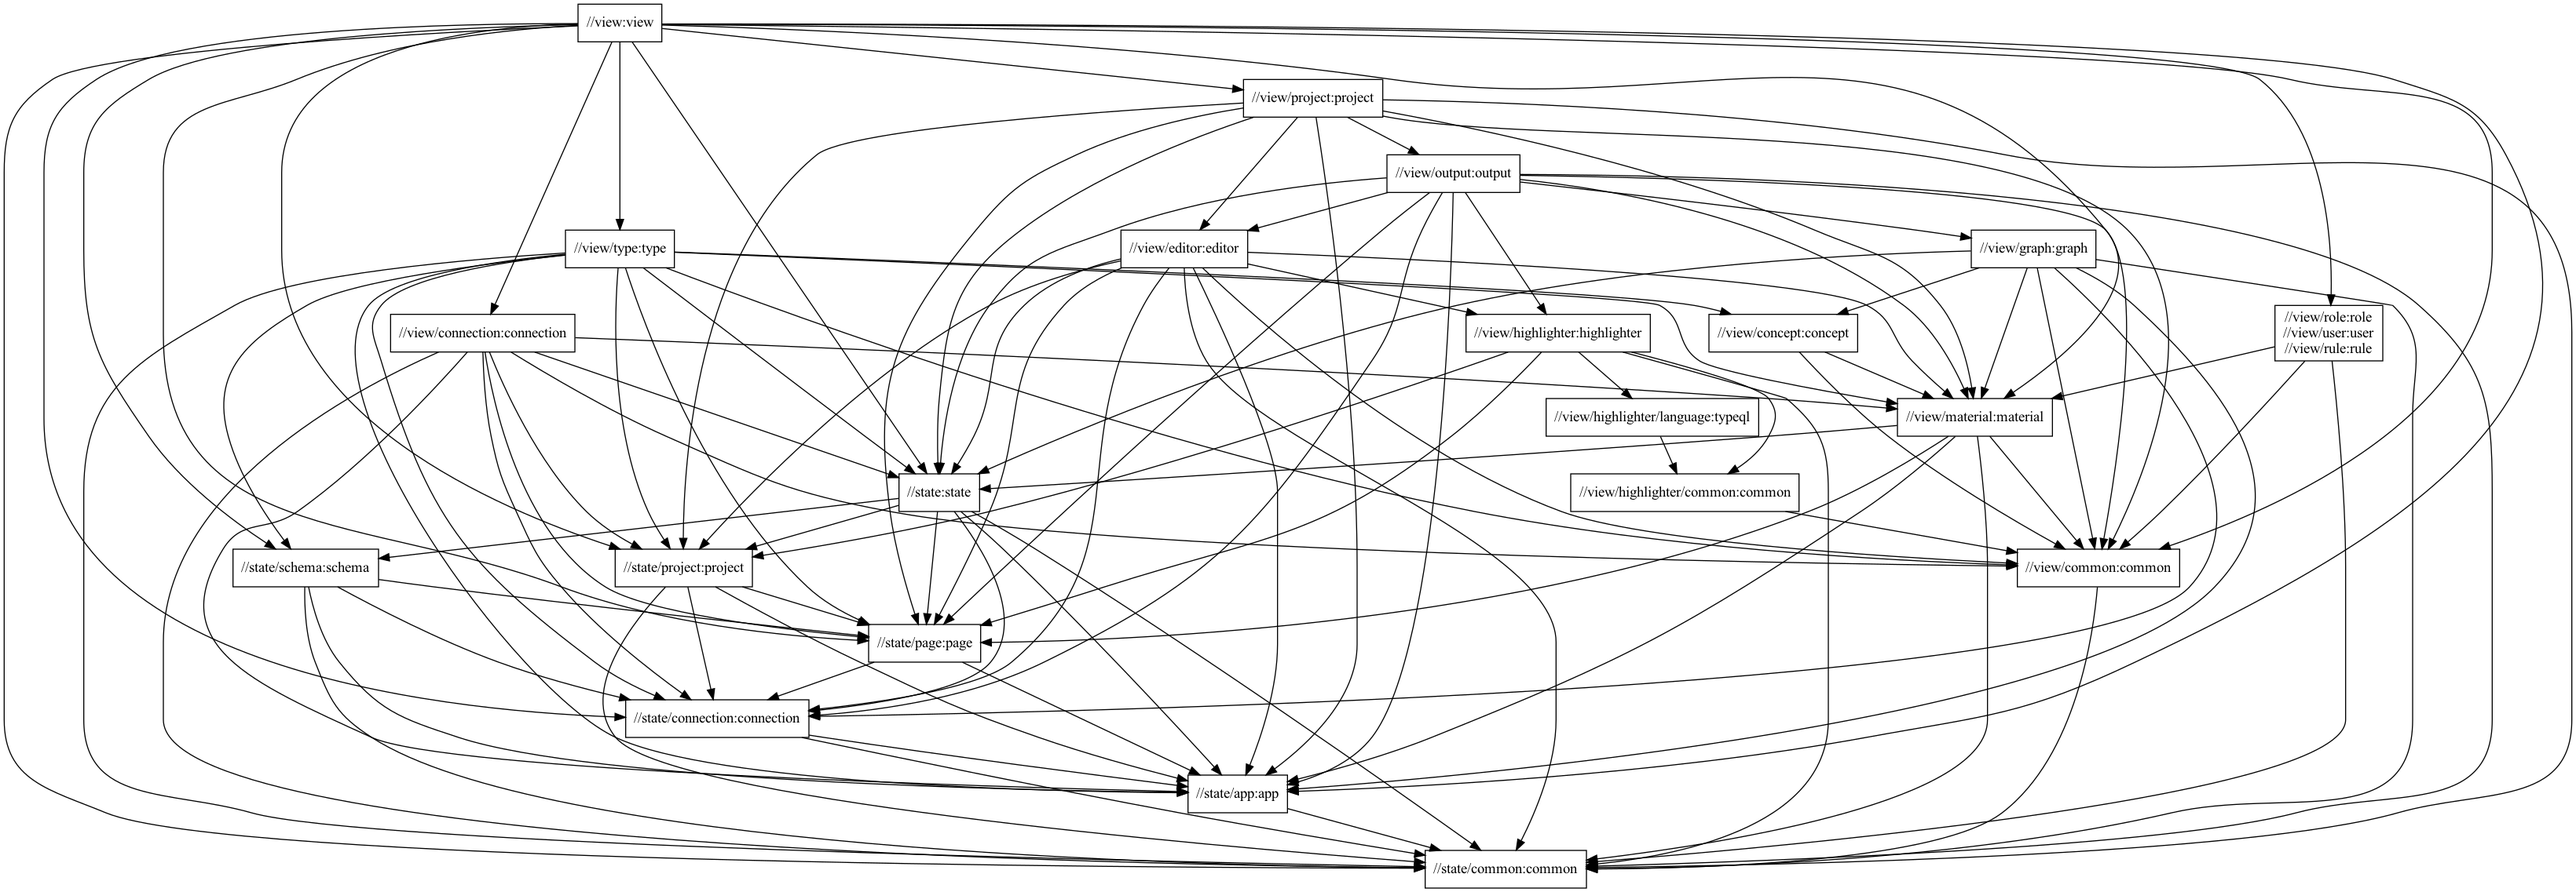
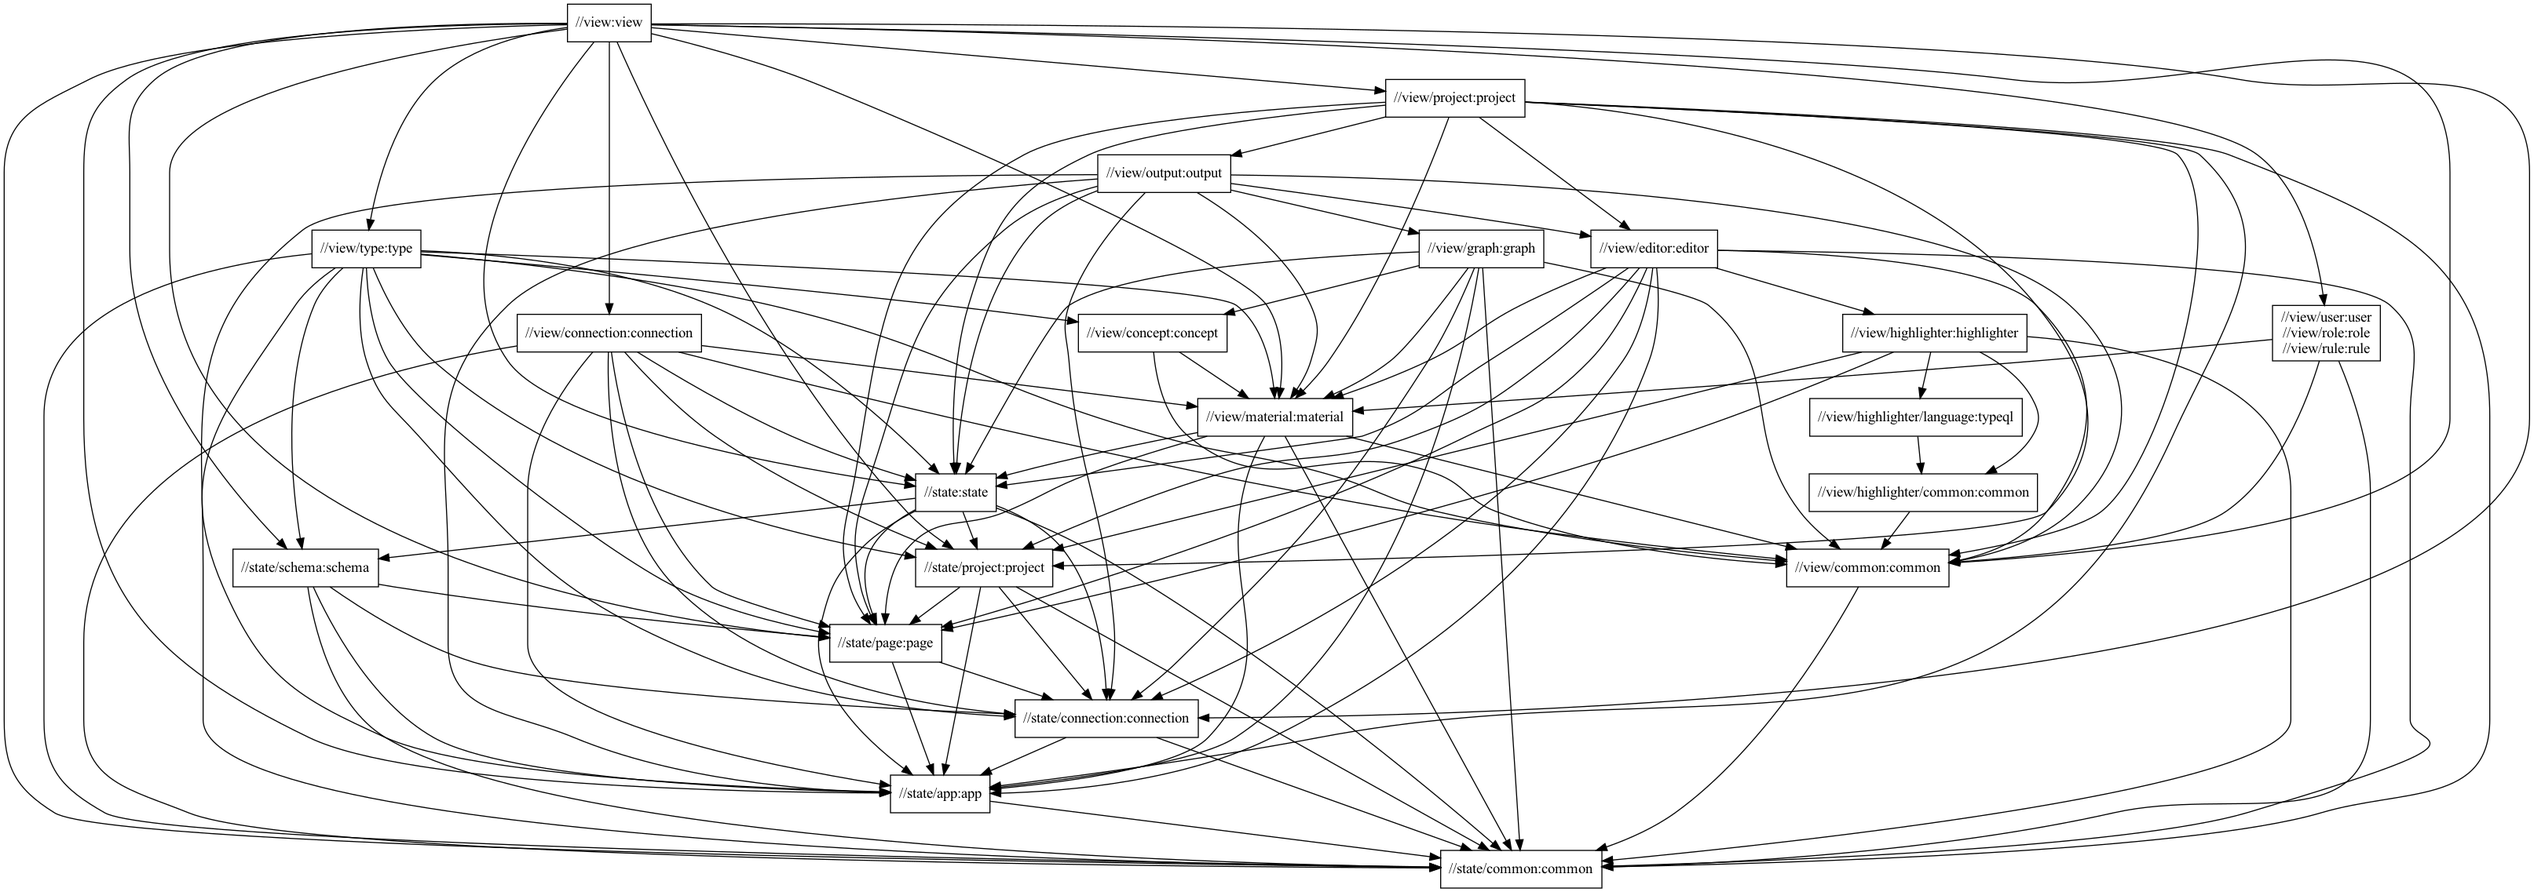
Encapsulate syntax highlighting into TextEditor.State, decoupling it from //view/output

diff --git a/view/output/LogOutput.kt b/view/output/LogOutput.kt
@@ -48,7 +48,6 @@ import com.vaticle.typedb.studio.state.connection.TransactionState
 import com.vaticle.typedb.studio.view.common.theme.Color
 import com.vaticle.typedb.studio.view.common.theme.Theme
 import com.vaticle.typedb.studio.view.editor.TextEditor
-import com.vaticle.typedb.studio.view.highlighter.SyntaxHighlighter
 import com.vaticle.typedb.studio.view.material.Form.IconButtonArg
 import com.vaticle.typedb.studio.view.material.Icon
 import com.vaticle.typedb.studio.view.material.Tooltip
@@ -100,14 +99,10 @@ internal class LogOutput constructor(
         StudioState.notification.info(LOGGER, Message.View.TEXT_COPIED_TO_CLIPBOARD)
     }
 
-    internal fun output(message: Response.Message) {
-        editorState.content.addAll(message.text.split("\n").map {
-            when (message.type) {
-                INFO -> AnnotatedString(it)
-                SUCCESS, ERROR -> highlightText(message.type, it, colors)
-                TYPEQL -> highlightTypeQL(it)
-            }
-        })
+    internal fun output(message: Response.Message) = when (message.type) {
+        INFO -> editorState.addContent(message.text)
+        SUCCESS, ERROR -> editorState.addContent(message.text) { highlightText(message.type, it, colors) }
+        TYPEQL -> outputTypeQL(message.text)
     }
 
     internal fun output(numeric: Numeric) = outputTypeQL(numeric.toString())
@@ -128,16 +123,10 @@ internal class LogOutput constructor(
     }
 
     private fun outputTypeQL(text: String) {
-        editorState.content.addAll(text.split("\n").map { highlightTypeQL(it) })
+        editorState.addContent(text, Property.FileType.TYPEQL)
     }
 
-    private fun highlightTypeQL(text: String) = SyntaxHighlighter.highlight(text, Property.FileType.TYPEQL)
-
-    private fun highlightText(
-        type: Response.Message.Type,
-        text: String,
-        colors: Color.StudioTheme
-    ): AnnotatedString {
+    private fun highlightText(type: Response.Message.Type, text: String, colors: Color.StudioTheme): AnnotatedString {
         val builder = AnnotatedString.Builder()
         val style = SpanStyle(
             color = when (type) {

diff --git a/view/editor/TextEditor.kt b/view/editor/TextEditor.kt
@@ -72,12 +72,14 @@ import androidx.compose.ui.unit.sp
 import com.vaticle.typedb.studio.state.StudioState
 import com.vaticle.typedb.studio.state.common.util.Message.Project.Companion.FILE_CONTENT_CHANGED_ON_DISK
 import com.vaticle.typedb.studio.state.common.util.Message.Project.Companion.FILE_PERMISSION_CHANGED_ON_DISK
+import com.vaticle.typedb.studio.state.common.util.Property
 import com.vaticle.typedb.studio.state.project.FileState
 import com.vaticle.typedb.studio.view.common.Util.toDP
 import com.vaticle.typedb.studio.view.common.theme.Color.fadeable
 import com.vaticle.typedb.studio.view.common.theme.Theme
 import com.vaticle.typedb.studio.view.editor.InputTarget.Selection
 import com.vaticle.typedb.studio.view.editor.TextProcessor.Companion.normaliseWhiteSpace
+import com.vaticle.typedb.studio.view.highlighter.SyntaxHighlighter
 import com.vaticle.typedb.studio.view.highlighter.SyntaxHighlighter.highlight
 import com.vaticle.typedb.studio.view.material.ContextMenu
 import com.vaticle.typedb.studio.view.material.Scrollbar
@@ -191,7 +193,7 @@ object TextEditor {
     }
 
     class State internal constructor(
-        val content: SnapshotStateList<AnnotatedString>,
+        internal val content: SnapshotStateList<AnnotatedString>,
         internal val font: TextStyle,
         internal val rendering: TextRendering,
         internal val finder: TextFinder,
@@ -233,6 +235,14 @@ object TextEditor {
             content.clear()
             content.addAll(highlight(file.readContent().map { normaliseWhiteSpace(it) }, file.fileType))
             rendering.reinitialize(content.size)
+        }
+
+        fun addContent(text: String, type: Property.FileType = Property.FileType.UNKNOWN) {
+            content.addAll(text.split("\n").map { highlight(it, type) })
+        }
+
+        fun addContent(text: String, highlighter: (String) -> AnnotatedString) {
+            content.addAll(text.split("\n").map { highlighter(it) })
         }
 
         fun updateFile(file: FileState) {
